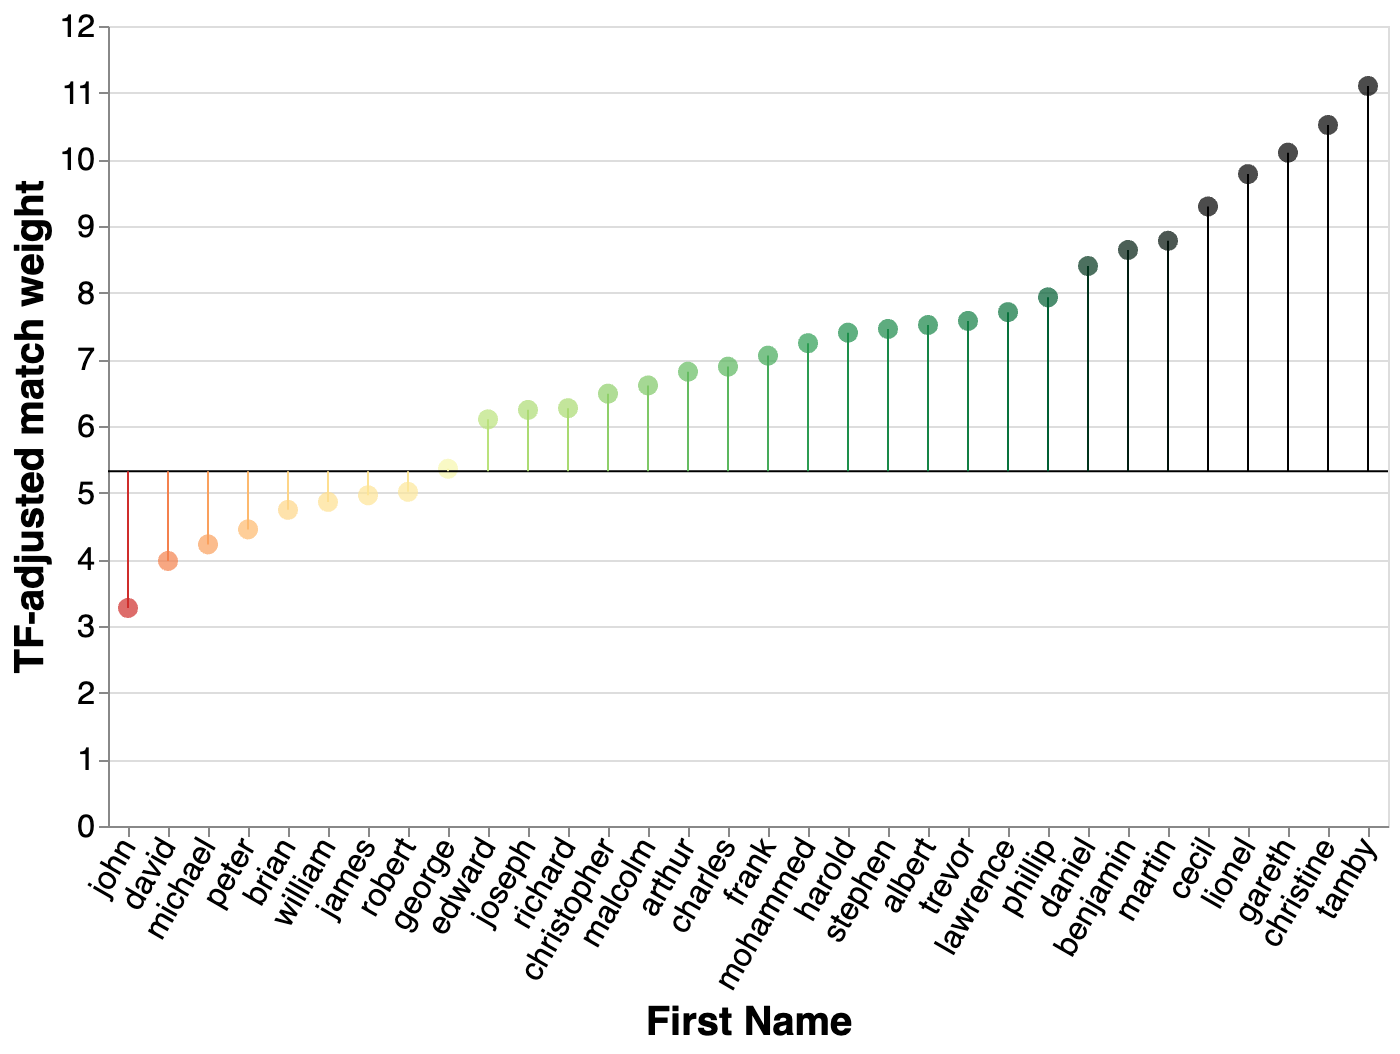
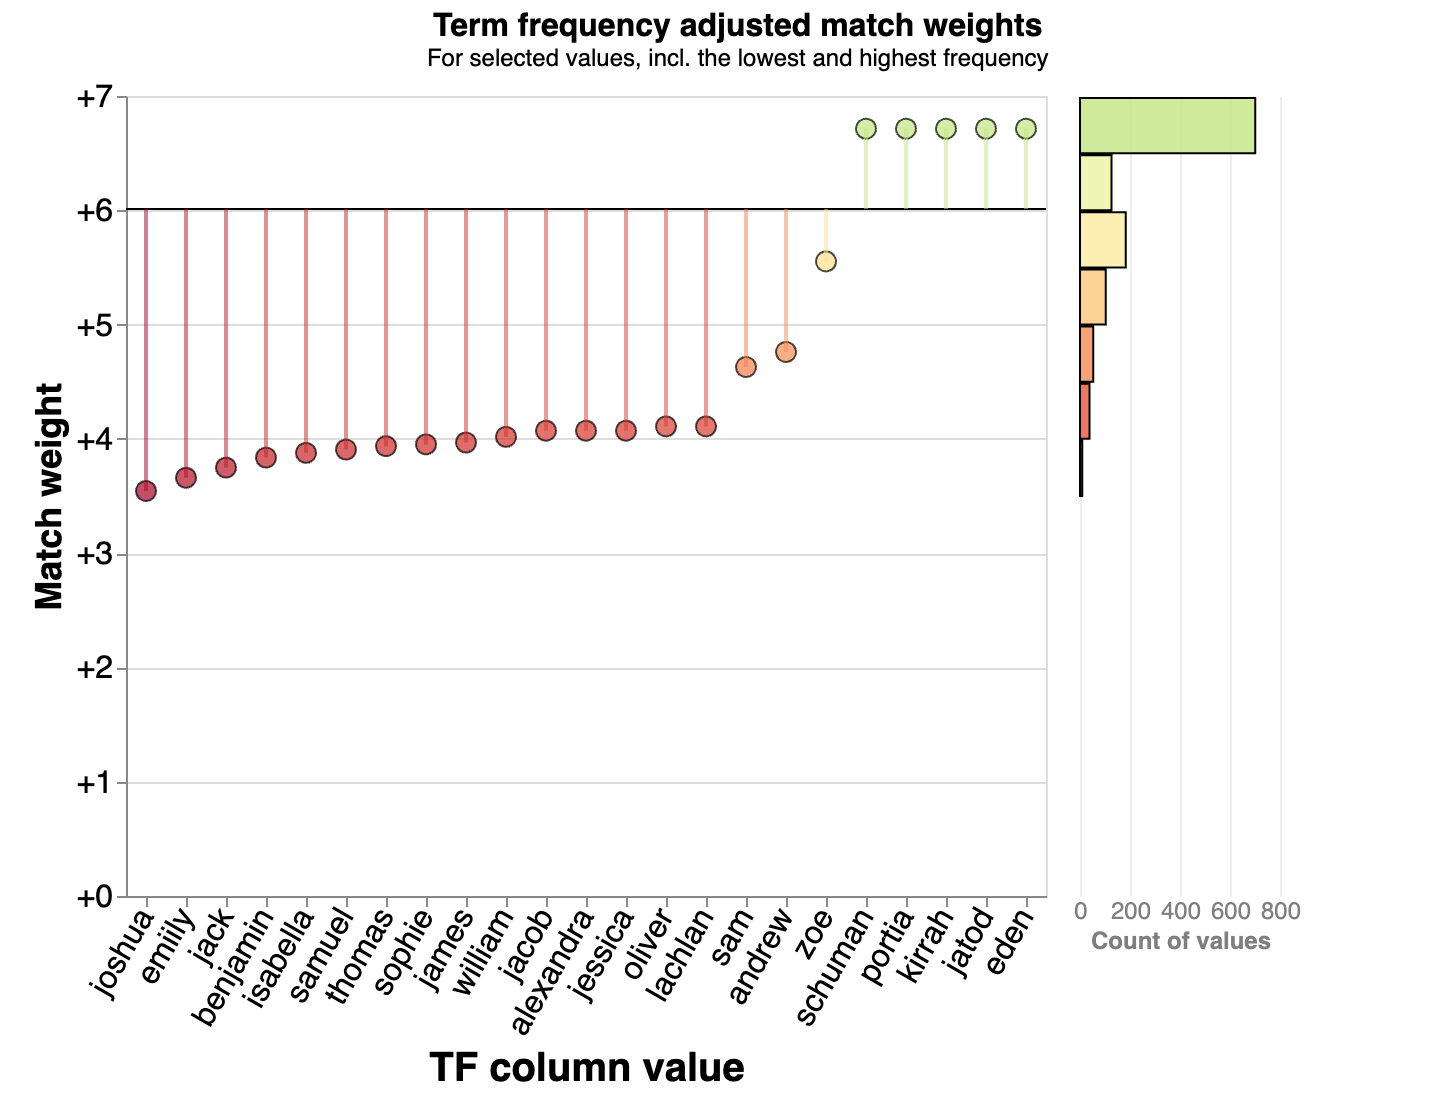
Updated topic guide

diff --git a/docs/topic_guides/term-frequency.md b/docs/topic_guides/term-frequency.md
@@ -66,10 +66,7 @@ For an individual comparison of two records, we can see the impact of TF adjustm
 
 We can also see these match weights and TF adjustments summarised using a chart like the below to highlight common and uncommon names. We do this already using the Splink linker's profile_columns method, but once we know the u probabilities for our comparison columns, we can show these outliers in terms of their impact on match weight:
 
-![In this sample of names from test data, we see that a match on **first name** has a match weight of +5.3. 
-For an uncommon name like Tamby, this is increased to +11.1 (very strong evidence for a match), whereas a common name like John has a reduced match weight of +3.3 (positive but weaker evidence).](../img/tf-match-weight.png){width="800"}
-
-Creating a function to generate this chart of term-frequency-adjusted match weights is currently on our backlog. If you thing this would be useful please comment on the [github issue](https://github.com/moj-analytical-services/splink/issues/430) or feel free to put in a PR. We love getting contributions from our users!
+![In this example of names from FEBRL data used in the demo notebooks, we see that a match on first name has a match weight of +6. For an uncommon name like Portia this is increased, whereas a common name like Jack has a reduced match weight. This chart can be generated using `linker.tf_adjustment_chart("name")`](../img/tf-match-weight.png){width="800"}
 
 
 ## Applying TF adjustments in Splink
